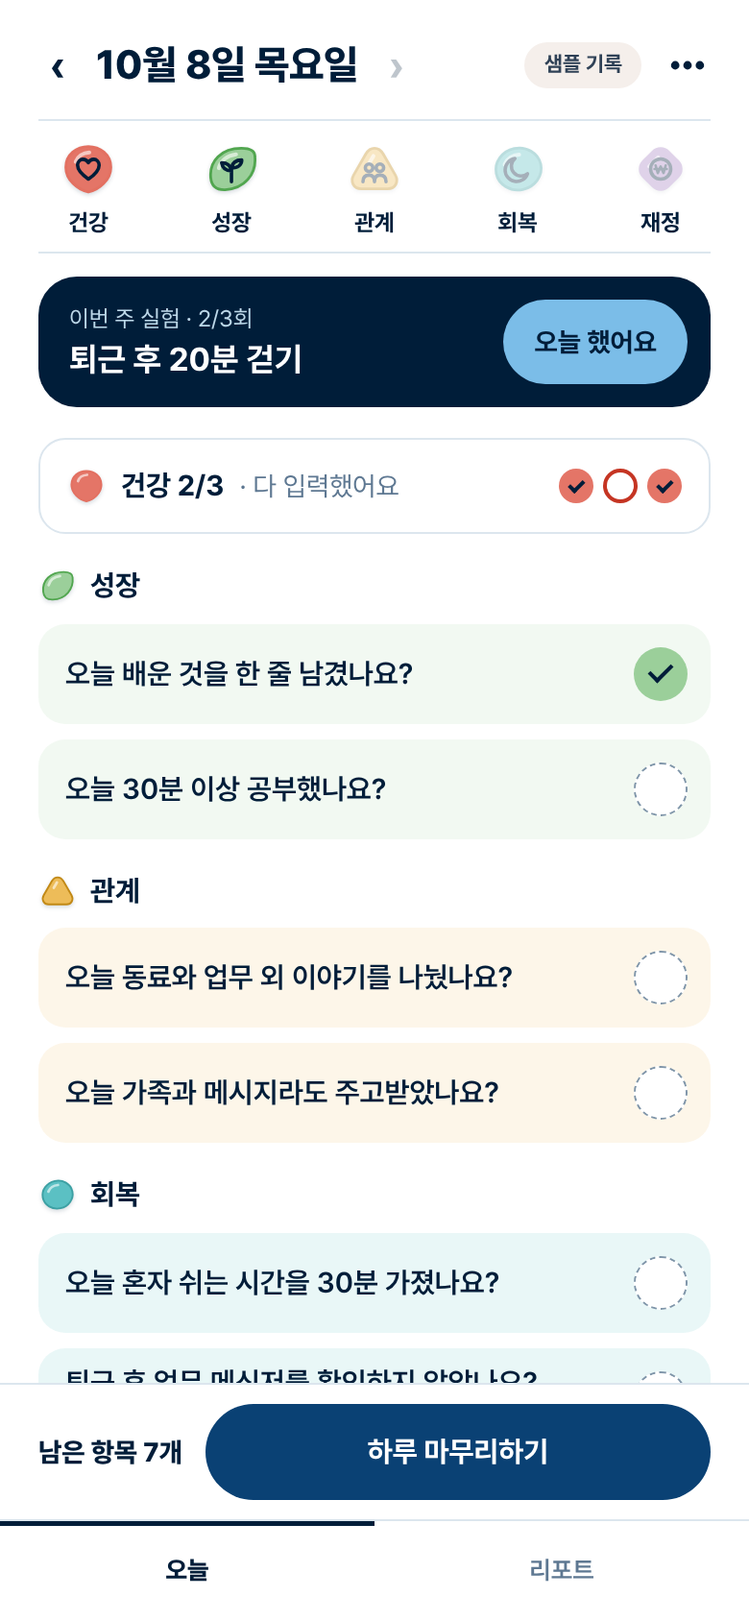
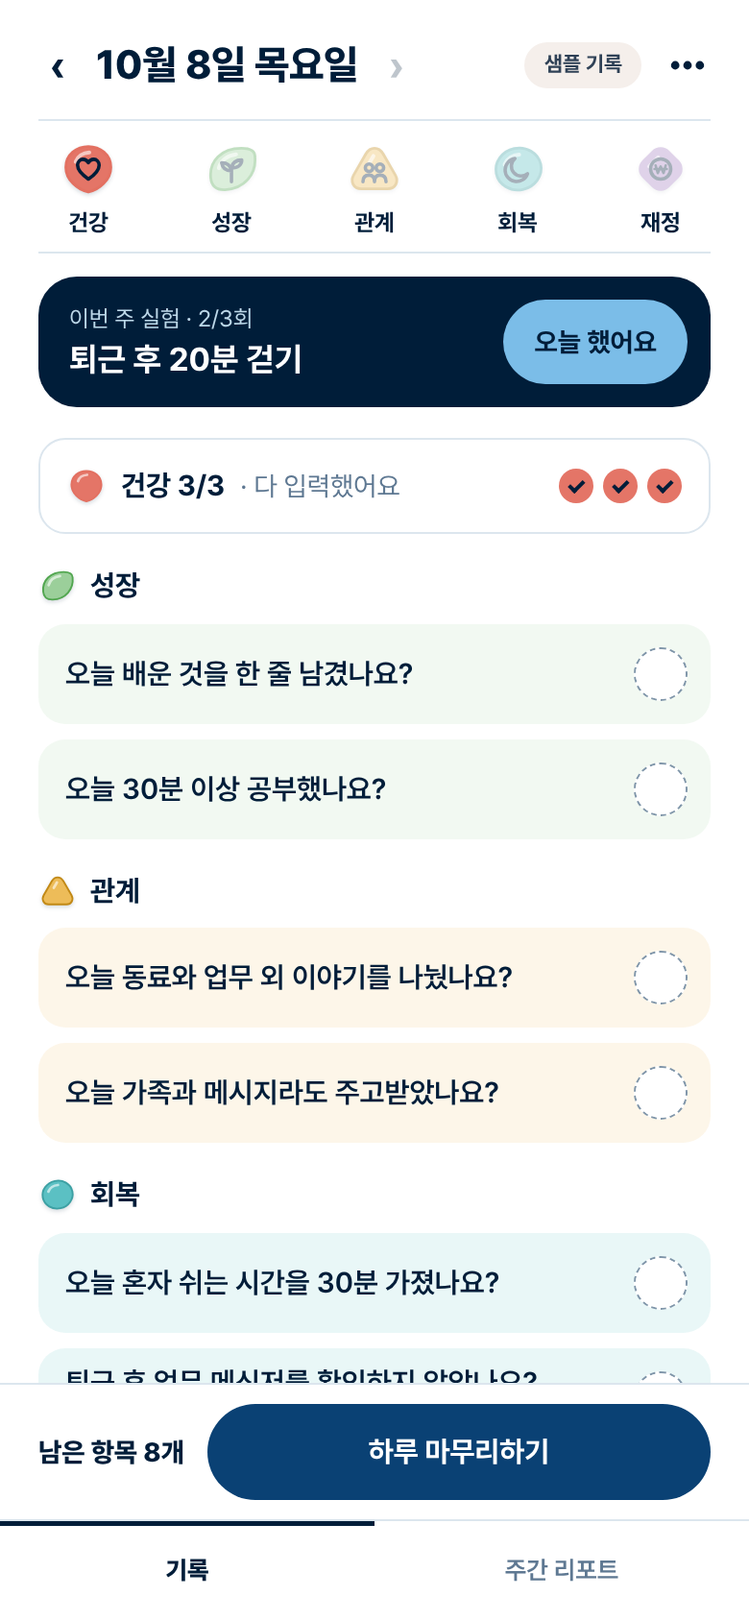
탭 이름 기록·주간 리포트로 변경, 4주 기록 색 단계 조정, 확인 창 버튼 수정

diff --git a/index.html b/index.html
@@ -175,6 +175,10 @@
   --font-sans: Pretendard, "Noto Sans KR", "Apple SD Gothic Neo", system-ui, sans-serif;
 }
 /* 토큰 원본에는 다크(심해) 값도 있다. 기획안 v2.0에 테마 전환이 없어서 시연판은 라이트만 쓴다. */
+/* 최근 4주 기록의 농도 4단계만 토큰 원본과 다르게 쓴다(2026-10-06 팀 결정, 안 B).
+   원본은 3단계만 청록이고 밝기 간격이 고르지 않아 어느 날이 더 많이 채운 날인지 읽기 어려웠다.
+   한 가지 파랑으로 맞추고 밝기만 단계적으로 내린다. 위 토큰 블록은 원본 그대로 두고 여기서 덮어쓴다. */
+:root{--depth-1:#C6E0F2;--depth-2:#84B6E3;--depth-3:#3F86C9;--depth-4:#0A4F92}
 
 /* ───────── 바탕 ───────── */
 :root{box-sizing:border-box;color-scheme:light;padding-top:env(safe-area-inset-top,0px);padding-bottom:env(safe-area-inset-bottom,0px)}
@@ -669,7 +673,7 @@ function sayLabel(it,date){var m=/^(.*?)\{.+?\}/.exec(TPL[it.template].q),h=it.h
   for(var i=0;i<h.length;i++)if(h[i].from<=date)tg=h[i].target;return (m[1]+tg).trim()}
 function toast(t){S.toast=t;renderSheet();clearTimeout(timers.toast);timers.toast=setTimeout(function(){S.toast=null;renderSheet()},2200)}
 function go(view){S.view=view;S.sheet=null;render();try{window.scrollTo(0,0)}catch(e){}}
-function tabbar(cur){return '<nav class="tabbar" aria-label="하단 탭"><button data-a="tab" data-v="today"'+(cur==='today'?' aria-current="page"':'')+'>오늘</button><button data-a="tab" data-v="report"'+(cur==='report'?' aria-current="page"':'')+'>리포트</button></nav>'}
+function tabbar(cur){return '<nav class="tabbar" aria-label="하단 탭"><button data-a="tab" data-v="today"'+(cur==='today'?' aria-current="page"':'')+'>기록</button><button data-a="tab" data-v="report"'+(cur==='report'?' aria-current="page"':'')+'>주간 리포트</button></nav>'}
 var WAVE='<svg viewBox="0 0 390 34" preserveAspectRatio="none" aria-hidden="true"><path d="M0 12C45 2 85 4 130 12S215 24 262 12S345 0 390 10V34H0Z" style="fill:var(--shore-foam)"/><path d="M0 22C50 12 92 14 140 22S228 32 276 22S350 12 390 20V34H0Z" style="fill:var(--shore-sand)"/></svg>';
 
 /* ───────── ① 시작 ───────── */
@@ -767,7 +771,7 @@ function vClose(){var c=S.close,date=c.date,t=TODAY(),h='',skipN=[],skipC=0,day=
     streaks([[236,182,84,7,'sunset-gold',.6],[300,193,70,5,'sunset-coral',.35]])+
     '<rect y="206" width="390" height="56" style="fill:var(--evening-sea)"/>'+
     streaks([[20,216,90,4,'evening-sea-deep',.5],[240,212,110,4,'sunset-glow',.6],[262,222,70,3,'sunset-coral',.5],[120,220,80,4,'evening-sea-deep',.45]])+'</svg>'+
-    '<div class="in"><button class="back" data-a="tab" data-v="today">‹ 오늘 체크로</button><h1>'+day+' 하루, 몸과 마음의<br>컨디션은 어땠나요?</h1></div></div><div class="sheetbody">'+
+    '<div class="in"><button class="back" data-a="tab" data-v="today">‹ 기록으로</button><h1>'+day+' 하루, 몸과 마음의<br>컨디션은 어땠나요?</h1></div></div><div class="sheetbody">'+
     '<div class="cond" role="radiogroup" aria-label="컨디션">';
   for(var v=1;v<=5;v++){h+='<button class="c'+v+'" role="radio" aria-checked="'+(c.cond===v)+'" data-a="cond" data-v="'+v+'" data-f="cond-'+v+'"><i aria-hidden="true">';
     for(var b=1;b<=5;b++)h+='<b class="'+(b<=v?'f':'')+'" style="height:'+(6+b*4.8)+'px"></b>';
@@ -843,7 +847,7 @@ function vReport(){var t=TODAY(),cur=weekStart(t),weeks=repWeeks(),ws=S.rep.ws,i
   if(idx<0){ws=S.rep.ws=cur;idx=weeks.indexOf(cur)}
   var st=weekStats(ws),rp=sampleReport(ws),isCur=ws===cur,isLast=ws===addDays(cur,-7),total=allDates().filter(function(d){return hasChecks(d)}).length;
   h+='<div class="wk"><button class="nav" data-a="wk" data-v="-1" aria-label="이전 주"'+(idx<=0?' disabled':'')+'>‹</button><b>'+md(ws)+' – '+md(addDays(ws,6))+'</b><button class="nav" data-a="wk" data-v="1" aria-label="다음 주"'+(idx>=weeks.length-1?' disabled':'')+'>›</button></div><div class="rep">';
-  if(!allDates().length){h+='<div class="card empty"><b>아직 기록이 없어요</b><p class="tiny" style="margin:4px 0 12px">오늘 체크를 하면 이번 주 차트가 채워져요</p><button class="btn whale sm" style="margin:0 auto" data-a="tab" data-v="today">오늘 체크하러 가기</button></div></div><div class="dock">'+tabbar('report')+'</div>';return h}
+  if(!allDates().length){h+='<div class="card empty"><b>아직 기록이 없어요</b><p class="tiny" style="margin:4px 0 12px">기록을 남기면 이번 주 차트가 채워져요</p><button class="btn whale sm" style="margin:0 auto" data-a="tab" data-v="today">기록하러 가기</button></div></div><div class="dock">'+tabbar('report')+'</div>';return h}
   var first=weekStart(allDates()[0])>=addDays(cur,-7),need=Math.max(1,10-total);
   var sumtxt=isCur?'이번 주 중간 점검이에요. 문장과 실험은 주가 끝나면 나와요.':rp?rp.summary:(first?'첫 주는 기록을 모으는 중이에요.':(total<10?need+'일만 더 기록하면 다음 주 리포트에 패턴이 나와요.':'이 주의 기록이에요.'));
   h+='<div class="rcard"><small>'+(st.avg?'평균 컨디션 '+st.avg+' · ':'')+'기록 '+st.recorded+'일</small><p class="sumtxt">'+esc(sumtxt)+'</p>'+pendant(st.rate,p.importance)+'<p class="cap">청록 실선 실천률 · 금색 점선 내가 정한 중요도</p></div>';

diff --git a/src/app.js b/src/app.js
@@ -185,7 +185,7 @@ function sayLabel(it,date){var m=/^(.*?)\{.+?\}/.exec(TPL[it.template].q),h=it.h
   for(var i=0;i<h.length;i++)if(h[i].from<=date)tg=h[i].target;return (m[1]+tg).trim()}
 function toast(t){S.toast=t;renderSheet();clearTimeout(timers.toast);timers.toast=setTimeout(function(){S.toast=null;renderSheet()},2200)}
 function go(view){S.view=view;S.sheet=null;render();try{window.scrollTo(0,0)}catch(e){}}
-function tabbar(cur){return '<nav class="tabbar" aria-label="하단 탭"><button data-a="tab" data-v="today"'+(cur==='today'?' aria-current="page"':'')+'>오늘</button><button data-a="tab" data-v="report"'+(cur==='report'?' aria-current="page"':'')+'>리포트</button></nav>'}
+function tabbar(cur){return '<nav class="tabbar" aria-label="하단 탭"><button data-a="tab" data-v="today"'+(cur==='today'?' aria-current="page"':'')+'>기록</button><button data-a="tab" data-v="report"'+(cur==='report'?' aria-current="page"':'')+'>주간 리포트</button></nav>'}
 var WAVE='<svg viewBox="0 0 390 34" preserveAspectRatio="none" aria-hidden="true"><path d="M0 12C45 2 85 4 130 12S215 24 262 12S345 0 390 10V34H0Z" style="fill:var(--shore-foam)"/><path d="M0 22C50 12 92 14 140 22S228 32 276 22S350 12 390 20V34H0Z" style="fill:var(--shore-sand)"/></svg>';
 
 /* ───────── ① 시작 ───────── */
@@ -283,7 +283,7 @@ function vClose(){var c=S.close,date=c.date,t=TODAY(),h='',skipN=[],skipC=0,day=
     streaks([[236,182,84,7,'sunset-gold',.6],[300,193,70,5,'sunset-coral',.35]])+
     '<rect y="206" width="390" height="56" style="fill:var(--evening-sea)"/>'+
     streaks([[20,216,90,4,'evening-sea-deep',.5],[240,212,110,4,'sunset-glow',.6],[262,222,70,3,'sunset-coral',.5],[120,220,80,4,'evening-sea-deep',.45]])+'</svg>'+
-    '<div class="in"><button class="back" data-a="tab" data-v="today">‹ 오늘 체크로</button><h1>'+day+' 하루, 몸과 마음의<br>컨디션은 어땠나요?</h1></div></div><div class="sheetbody">'+
+    '<div class="in"><button class="back" data-a="tab" data-v="today">‹ 기록으로</button><h1>'+day+' 하루, 몸과 마음의<br>컨디션은 어땠나요?</h1></div></div><div class="sheetbody">'+
     '<div class="cond" role="radiogroup" aria-label="컨디션">';
   for(var v=1;v<=5;v++){h+='<button class="c'+v+'" role="radio" aria-checked="'+(c.cond===v)+'" data-a="cond" data-v="'+v+'" data-f="cond-'+v+'"><i aria-hidden="true">';
     for(var b=1;b<=5;b++)h+='<b class="'+(b<=v?'f':'')+'" style="height:'+(6+b*4.8)+'px"></b>';
@@ -359,7 +359,7 @@ function vReport(){var t=TODAY(),cur=weekStart(t),weeks=repWeeks(),ws=S.rep.ws,i
   if(idx<0){ws=S.rep.ws=cur;idx=weeks.indexOf(cur)}
   var st=weekStats(ws),rp=sampleReport(ws),isCur=ws===cur,isLast=ws===addDays(cur,-7),total=allDates().filter(function(d){return hasChecks(d)}).length;
   h+='<div class="wk"><button class="nav" data-a="wk" data-v="-1" aria-label="이전 주"'+(idx<=0?' disabled':'')+'>‹</button><b>'+md(ws)+' – '+md(addDays(ws,6))+'</b><button class="nav" data-a="wk" data-v="1" aria-label="다음 주"'+(idx>=weeks.length-1?' disabled':'')+'>›</button></div><div class="rep">';
-  if(!allDates().length){h+='<div class="card empty"><b>아직 기록이 없어요</b><p class="tiny" style="margin:4px 0 12px">오늘 체크를 하면 이번 주 차트가 채워져요</p><button class="btn whale sm" style="margin:0 auto" data-a="tab" data-v="today">오늘 체크하러 가기</button></div></div><div class="dock">'+tabbar('report')+'</div>';return h}
+  if(!allDates().length){h+='<div class="card empty"><b>아직 기록이 없어요</b><p class="tiny" style="margin:4px 0 12px">기록을 남기면 이번 주 차트가 채워져요</p><button class="btn whale sm" style="margin:0 auto" data-a="tab" data-v="today">기록하러 가기</button></div></div><div class="dock">'+tabbar('report')+'</div>';return h}
   var first=weekStart(allDates()[0])>=addDays(cur,-7),need=Math.max(1,10-total);
   var sumtxt=isCur?'이번 주 중간 점검이에요. 문장과 실험은 주가 끝나면 나와요.':rp?rp.summary:(first?'첫 주는 기록을 모으는 중이에요.':(total<10?need+'일만 더 기록하면 다음 주 리포트에 패턴이 나와요.':'이 주의 기록이에요.'));
   h+='<div class="rcard"><small>'+(st.avg?'평균 컨디션 '+st.avg+' · ':'')+'기록 '+st.recorded+'일</small><p class="sumtxt">'+esc(sumtxt)+'</p>'+pendant(st.rate,p.importance)+'<p class="cap">청록 실선 실천률 · 금색 점선 내가 정한 중요도</p></div>';

diff --git a/test.js b/test.js
@@ -177,5 +177,15 @@ let pass=0;const ok=(c,m)=>{assert(c,m);pass++;};
   { const css=fs.readFileSync('src/style.css','utf8'),js=fs.readFileSync('src/app.js','utf8');
     ok(/\.safe \.btn\.solid\{background:var\(--ink\);color:#fff\}/.test(css)&&/<button class="btn solid" data-a="resetYes">지우기<\/button>/.test(js),'confirm dialog: delete button has visible label');
     ok(!/<button[^>]*style="[^"]*(background|color)/.test(js),'no inline colors on buttons'); }
+  // 팀 결정(2026-10-06): 탭 이름은 기록 · 주간 리포트, 4주 기록 농도는 한 색상으로 밝기만 단계적으로
+  { const css=fs.readFileSync('src/style.css','utf8'),js=fs.readFileSync('src/app.js','utf8');
+    ok(/>기록<\/button><button data-a="tab" data-v="report"[^>]*>주간 리포트<\/button>/.test(js.replace(/'\+\([^)]*\)\+'/g,'')),'tab labels: 기록 · 주간 리포트');
+    ok(!/오늘 체크로|오늘 체크하러/.test(js),'no leftover buttons naming the old tab');
+    const m=/:root\{--depth-1:(#\w{6});--depth-2:(#\w{6});--depth-3:(#\w{6});--depth-4:(#\w{6})\}/.exec(css);ok(!!m,'depth override block');
+    const L=h=>{const c=[1,3,5].map(i=>parseInt(h.slice(i,i+2),16)/255).map(v=>v<=.04045?v/12.92:Math.pow((v+.055)/1.055,2.4));const Y=.2126*c[0]+.7152*c[1]+.0722*c[2];return 116*Math.cbrt(Y)-16};
+    const hue=h=>{const c=[1,3,5].map(i=>parseInt(h.slice(i,i+2),16));return c[2]>c[1]&&c[1]>c[0]};
+    const ramp=[m[1],m[2],m[3],m[4],'#001D39'],ls=ramp.map(L),st=ls.slice(1).map((v,i)=>ls[i]-v);
+    ok(st.every(d=>d>=14&&d<=25),'depth ramp: each step darker by a similar amount '+st.map(d=>d.toFixed(0)).join(','));
+    ok(ramp.slice(0,4).every(hue),'depth ramp: one blue hue (no teal step)'); }
   console.log('PASS',pass);
 })().catch(e=>{console.error('FAIL after',pass,e.stack.split('\n').slice(0,3).join(' | '));process.exit(1)});

diff --git a/src/style.css b/src/style.css
@@ -166,6 +166,10 @@
   --font-sans: Pretendard, "Noto Sans KR", "Apple SD Gothic Neo", system-ui, sans-serif;
 }
 /* 토큰 원본에는 다크(심해) 값도 있다. 기획안 v2.0에 테마 전환이 없어서 시연판은 라이트만 쓴다. */
+/* 최근 4주 기록의 농도 4단계만 토큰 원본과 다르게 쓴다(2026-10-06 팀 결정, 안 B).
+   원본은 3단계만 청록이고 밝기 간격이 고르지 않아 어느 날이 더 많이 채운 날인지 읽기 어려웠다.
+   한 가지 파랑으로 맞추고 밝기만 단계적으로 내린다. 위 토큰 블록은 원본 그대로 두고 여기서 덮어쓴다. */
+:root{--depth-1:#C6E0F2;--depth-2:#84B6E3;--depth-3:#3F86C9;--depth-4:#0A4F92}
 
 /* ───────── 바탕 ───────── */
 :root{box-sizing:border-box;color-scheme:light;padding-top:env(safe-area-inset-top,0px);padding-bottom:env(safe-area-inset-bottom,0px)}

diff --git a/docs/checklist_v2.0.md b/docs/checklist_v2.0.md
@@ -32,7 +32,7 @@
 | ③-5c | 1장 ③ 표 5 · 시트 기준값 수정 · 5장 저장 | 길게 누르면 기준값 수정 시트. “다음 체크부터 이 기준으로 물어볼게요”, 지난 기록의 문장은 그대로(새 버전으로 저장) | 통과 | 0.7초 누르면 시트가 뜨고 값은 그대로. 8시간으로 바꾸면 오늘 문장만 바뀌고 어제 화면은 “7시간” 그대로, 항목 버전이 2가 됨 |
 | ③-6 | 1장 ③ 표 6 · 완료 기준 4 | 영역 항목을 모두 입력하면 0.6초 뒤 “성장 2/2 · 다 입력했어요” 한 줄로 접힘. 누르면 다시 펼침. 처음엔 모두 펼쳐져 있음 | 통과 | 두 항목을 다 누르고 0.6초쯤 뒤 “성장 2/2 · 다 입력했어요” 한 줄로 접히고, 누르면 펼쳐짐 |
 | ③-7 | 1장 ③ 표 7·8 | 남은 항목 = 미입력 수, 0이면 “다 입력했어요”. 하루 마무리하기는 항상 활성, 남은 항목은 미입력으로 둠(못 했음으로 바꾸지 않음) | 통과 | 11개로 시작해 누를 때마다 줄고, 하나만 입력하고 마무리해도 나머지는 빈 채로 남음. 다 채우면 “다 입력했어요” |
-| ③-9 | 1장 ③ 표 9 · 전제 | 하단 탭은 오늘 · 리포트 2개 | 통과 | 탭 2개로 두 화면을 오감 |
+| ③-9 | 1장 ③ 표 9 · 전제 | 하단 탭 2개. 기획안 표기는 ‘오늘 · 리포트’이고, 팀 결정(10/6)으로 ‘기록 · 주간 리포트’로 바꿈 | 통과 | 탭 2개로 두 화면을 오감 |
 | ③-일 | 1장 ③ 일요일 · 2장 주 | 일요일: 주간 항목이 맨 위 ‘지난주 돌아보기’ 묶음으로 나오고, 지난주(일–토) 기록으로 저장 | 통과 | 10월 11일(일)에 주간 5개가 맨 위에 나오고, 누르면 10월 4일 주의 기록으로 저장됨. 목요일에는 안 나옴 |
 | ③-마 | 1장 ③ 마무리 뒤 다시 열면 | 상단에 “오늘 마무리했어요 · 컨디션 4”. 항목은 계속 고칠 수 있음 | 통과 | 마무리 뒤 새로고침해도 문구가 보이고 항목을 누를 수 있음 |
 | ③-3일 | 1장 ③ 3일 이상 기록 없이 열면 | “다시 오셨네요. 오늘부터 이어 가요” 한 줄만. 지난 날을 채우라고 하지 않음 | 통과 | 10월 1일에 기록하고 5일에 열면 문구가 뜸(4일에는 안 뜸). 오늘 항목을 누르면 사라짐 |
@@ -46,7 +46,7 @@
 | ⑤-2 | 1장 ⑤ 표 2 · 4장 미리 쓴 리포트 | 한 줄 요약(샘플 리포트의 미리 쓴 문장), 아래로 좋았던 점 · 부족했던 점 카드 | 통과 | 4주 치 모두 요약 문장, 좋았던 점·부족했던 점, “평균 컨디션 · 기록 n일”이 데이터의 문장·숫자와 같음 |
 | ⑤-3 | 1장 ⑤ 표 3 · 2장 실천률 | 조개 펜던트 오각형: 실선 = 영역 실천률, 점선 = 중요도 × 20%. 꼭짓점마다 씨글라스와 숫자(%). 꼭짓점을 누르면 그 영역 항목별 ● 횟수 | 통과 | 꼭짓점 숫자가 59·80·80·62·80%, 건강 실선 꼭짓점이 59% 위치, 건강 중요도 5의 점선이 100% 위치. 건강을 누르면 “물 5잔 ● 2 / 7” 등 항목별 횟수(리포트 문장의 “7일 중 2일”과 같음) |
 | ⑤-4 | 1장 ⑤ 표 4 | 요일별 컨디션: 해초 막대 높이 = 컨디션 숫자. 기록 없는 날은 모래 점, 체크만 한 날은 ‘−’. 막대를 누르면 그날 한 줄과 다섯 영역 | 통과 | 컨디션 1·2·3·4의 줄기 높이가 20·34·48·62px로 숫자에 비례. 화요일(체크만)은 “−”, 2주 전 화–목은 모래 점. 막대를 누르면 그날 한 줄과 다섯 영역 카드 |
-| ⑤-5 | 1장 ⑤ 표 5 · 완료 기준 6 | 최근 4주 기록: 하루 한 칸. 진하기 = 채운 영역 수, 기록 없는 날 = 작은 모래 점, 체크만 한 날 = 반원, 0개 영역 날 = 테두리만 있는 큰 원, 아직 안 온 날 = 비움. 범례 항상 표시 | 통과 | 28칸이 기획안 4주 기록과 한 칸씩 같음(색 5단계, 2주 전 화–목 9px 모래 점, 체크만 한 날 반원, 금·토 빈칸). 못 했음만 있는 날은 테두리만 있는 큰 원 |
+| ⑤-5 | 1장 ⑤ 표 5 · 완료 기준 6 | 최근 4주 기록: 하루 한 칸. 진하기 = 채운 영역 수, 기록 없는 날 = 작은 모래 점, 체크만 한 날 = 반원, 0개 영역 날 = 테두리만 있는 큰 원, 아직 안 온 날 = 비움. 범례 항상 표시 | 통과 | 28칸이 기획안 4주 기록과 한 칸씩 같음(색 5단계는 팀 결정으로 한 가지 파랑의 밝기 단계, 2주 전 화–목 9px 모래 점, 체크만 한 날 반원, 금·토 빈칸). 못 했음만 있는 날은 테두리만 있는 큰 원 |
 | ⑤-6 | 1장 ⑤ 표 6 · 완료 기준 6 | 발견한 패턴 최대 2개, 근거 날 수 함께. 빈 구간이 있던 주는 ‘빈 구간 읽기’ 카드가 맨 위 | 통과 | 지난주는 패턴 2개와 “근거 16일 vs 7일”. 2주 전은 빈 구간 읽기 카드가 패턴 위에 있고 실험이 모두 10분·주 2회 이하 |
 | ⑤-7 | 1장 ⑤ 표 7·8 | 작은 실험 3개 중 하나 선택, 위에 지난 실험 결과. 이 실험으로 정하기: 선택하면 활성, 저장 → ③ 실험 배너. 이미 정했으면 ‘실험 바꾸기’. 지난주 리포트에서만, 더 오래된 주는 읽기 전용 | 통과 | 도토리는 이미 “퇴근 후 20분 걷기”가 정해져 있어 버튼이 잠겨 있고, 다른 실험을 고르면 “실험 바꾸기”. 바꾸면 오늘 화면 배너가 새 실험 0/3회로 바뀜. 2주 전 리포트는 고를 수 없음 |
 | ⑤-7b | 1장 ⑤ 표 8 | 아직 정하지 않은 상태: 고르기 전에는 잠김, 고르면 ‘이 실험으로 정하기’ 활성 → 저장하면 ③에 실험 배너 | 통과 | 시연 데이터에서 이번 주 실험만 뺀 상태로 확인: 배너 없음 → 리포트에서 하나 고르면 버튼이 켜짐 → 저장하면 오늘 화면에 배너 0/3회 → ‘오늘 했어요’로 1/3회 |
@@ -59,7 +59,7 @@
 | 저장-2 | 5장 브라우저 저장 | 모든 읽기·쓰기는 try/catch: 저장소를 쓸 수 없는 브라우저에서도 화면이 멈추지 않음 | 통과 | 저장소가 막힌 브라우저에서도 샘플 선택, 체크, 마무리가 동작(그 창을 닫을 때까지만 기억) |
 | 기술-1 | 5장 기술 전제 · 완료 기준 9 | 한 번 연 뒤에는 연결 없이 기록·리포트 동작. 외부 요청 없음 | 통과 | 연결을 끊고 새로고침해도 오늘 체크·하루 마무리·리포트와 글꼴이 그대로 나옴(크로미움, 임시 주소에서 확인. Vercel 주소와 실제 휴대폰은 배포 뒤 확인) |
 | 기술-2 | 5장 기술 전제 · 토큰 규칙 | 모바일 우선(기준 390×844). 가로로 넘치지 않음, 터치 영역 44px 이상 | 통과 | 390×844, 360×640에서 날짜가 가장 긴 일요일 화면도 가로로 넘치지 않고, 누르는 곳의 높이가 모두 44px 이상 |
-| 전제-탭 | 한눈에 보기 전제 · 5장 만들지 않는 것 | 화면 5개, 하단 탭 2개. 알림·월간·연간·메모 모아 보기·하루 흐름순·7일 줄·타이머·직접 추가·빈도 바꾸기·AI 호출이 없음 | 통과 | 오늘·마무리·리포트 화면 어디에도 해당 메뉴나 버튼이 없음 |
+| 전제-탭 | 한눈에 보기 전제 · 5장 만들지 않는 것 | 화면 5개, 하단 탭 2개. 알림·월간·연간·메모 모아 보기·하루 흐름순·7일 줄·타이머·직접 추가·빈도 바꾸기·AI 호출이 없음 | 통과 | 기록·마무리·주간 리포트 화면 어디에도 해당 메뉴나 버튼이 없음 |
 | 완료-1 | 5장 완료 기준 1 | 처음 연 사람이 ①→②→③을 3분 안에 끝낸다 | 사람 확인 | 누르는 횟수는 호칭 입력 + 9번(직무, 다음, 다음, 확정 5번, 시작)이면 끝나지만, 3분 안에 끝나는지는 처음 보는 사람에게 시켜 봐야 압니다 |
 | 완료-3 | 5장 완료 기준 3 | 순환 버튼 네 상태가 흑백에서도 구분된다 | 사람 확인 | 모양이 서로 다른 것은 ③-5a에서 확인했습니다. 실제 흑백 화면과 색약 시뮬레이션은 눈으로 봐야 합니다 |
 | 완료-9 | 5장 완료 기준 9 | 비행기 모드에서 다시 열어도 동작, 네트워크 탭에 외부 요청 없음 | 사람 확인 | 크로미움에서는 기술-1로 확인했습니다. Vercel 주소와 실제 휴대폰(사파리 포함)은 배포 뒤 확인합니다 |

diff --git a/CLAUDE.md b/CLAUDE.md
@@ -11,7 +11,7 @@
 ## 지금 상태
 
 - 기획안 v2.0의 화면 5개(① 시작 ② 나다움 설계 ③ 오늘 체크 ④ 하루 마무리 ⑤ 주간 패턴 리포트)와 시트 3개(샘플 고르기, 기준값 수정, 안전 카드)가 모두 동작한다.
-- `npm test`가 254건을 통과한다(2026-10-06 기준. 배포 원칙 점검 6건, 확인 창 버튼 색 점검 2건 포함: 맨 바깥 index.html, 프레임워크 없음, Vercel에 올라가는 파일, 올라가는 파일에 키·연락처·경로 없음). 기획안 5장 완료 기준 1–8번을 자동으로 확인한다.
+- `npm test`가 259건을 통과한다(2026-10-06 기준. 배포 원칙 점검 6건, 확인 창 버튼 색 점검 2건, 탭 이름·4주 기록 농도 점검 5건 포함: 맨 바깥 index.html, 프레임워크 없음, Vercel에 올라가는 파일, 올라가는 파일에 키·연락처·경로 없음). 기획안 5장 완료 기준 1–8번을 자동으로 확인한다.
 - 기획안의 기능 설명을 한 줄씩 옮긴 점검표가 `docs/checklist_v2.0.md`에 있다. `tools/check_spec.js`가 실제 브라우저 엔진으로 55개 항목을 눌러 보고 이 파일을 다시 쓴다. 2026-10-06 결과: 통과 51 · 어긋남 0 · 사람 확인 4. `화면-글자` 항목은 17개 화면·창에서 글자가 배경색에 묻히는 곳(대비 3:1 미만)을 찾는다. 그림·그러데이션 위 글자는 자동으로 재지 못한다. **기능을 고치거나 더하면 이 점검을 다시 돌리고, 기획안에서 새 요구를 찾으면 점검 항목부터 추가한다.**
 - 디자인 토큰 원본(`docs/design/anchor_design_tokens.txt`)과 화면 시안(`docs/design/screens/`)을 받아 다섯 화면의 모양을 맞췄다(2026-10-06). 글꼴은 Pretendard를 파일로 함께 배포한다.
 - `data/anchor_demo_data.json`은 팀 원본(v1.0, 2026-10-05 받음)이다. 도토리 샘플의 영역 실천률, 평균 컨디션, 기록 일수, 4주 기록 줄이 기획안 4장의 숫자와 전부 일치한다.
@@ -97,6 +97,11 @@ README.md            저장소 첫 화면 설명: 실행 방법, 재현 경로 3
 - 하루 마무리는 오늘과 어제에 할 수 있다(수정 가능 범위와 같게).
 - 이미 고른 실험과 같은 것을 고르면 버튼이 "이번 주 실험으로 정했어요"로 잠기고, 다른 것을 고르면 "실험 바꾸기"가 된다.
 - 4주 기록 줄에서 오늘 칸은 바깥 고리로 표시한다.
+
+## 기획안·토큰과 다르게 하기로 팀이 정한 것 (2026-10-06, 조원 의견 → 사용자 확인)
+
+- **하단 탭 이름**: 기획안은 "오늘 · 리포트", 앱은 **"기록 · 주간 리포트"**. 이유: 어제 날짜도 입력하고 지난 날도 볼 수 있어 "오늘"이 맞지 않고, 월간·하루 리포트가 없으니 "주간 리포트"가 정확하다. 탭을 가리키는 버튼도 맞췄다: 마무리 화면 "‹ 기록으로", 빈 리포트 "기록하러 가기"·"기록을 남기면 이번 주 차트가 채워져요". 실제 오늘을 뜻하는 문장("오늘 마무리했어요" 등)과 내부 이름(`today`, `report`)은 그대로다. 기획안과 PPT의 표기는 팀이 따로 고쳐야 한다.
+- **최근 4주 기록의 농도 색**: 토큰 원본의 depth-1~4(#BDD8E9, #7BBDE8, #4E8EA2, #0A4174) 대신 **#C6E0F2, #84B6E3, #3F86C9, #0A4F92**를 쓴다(depth-5 #001D39는 그대로). 이유: 원본은 3단계만 청록이고 밝기 간격(11·18·29·17)이 고르지 않아 어느 날이 더 많이 채운 날인지 읽기 어려웠다. 한 가지 파랑으로 맞추고 밝기만 내린다(간격 16·18·21·23). `src/style.css`에서 토큰 블록은 원본 그대로 두고 바로 아래 덮어쓰는 블록을 뒀다. 토큰 원본 파일은 고치지 않았다. 이 색은 4주 기록과 범례에만 쓰인다.
 
 ## 데이터 출처
 

diff --git a/README.md b/README.md
@@ -10,8 +10,8 @@
 ## 재현 경로 3단계
 
 1. 첫 화면에서 **샘플로 둘러보기 › 도토리**를 고릅니다.
-2. 오늘 체크에서 항목 몇 개를 누른 뒤 **하루 마무리하기** → 컨디션을 고르고 **저장하고 마무리**를 누릅니다. 노을 완료 화면이 뜨고 2초 뒤 돌아옵니다.
-3. 아래 **리포트** 탭에서 지난주 리포트를 보고, **‹**를 눌러 2주 전(사흘 비었던 주)으로 갑니다.
+2. **기록** 탭에서 항목 몇 개를 누른 뒤 **하루 마무리하기** → 컨디션을 고르고 **저장하고 마무리**를 누릅니다. 노을 완료 화면이 뜨고 2초 뒤 돌아옵니다.
+3. 아래 **주간 리포트** 탭에서 지난주 리포트를 보고, **‹**를 눌러 2주 전(사흘 비었던 주)으로 갑니다.
 
 구름 샘플로 들어가면 안전 카드를, 첫 화면에서 직무를 고르고 **다음**을 누르면 나다움 설계를 볼 수 있습니다.
 
